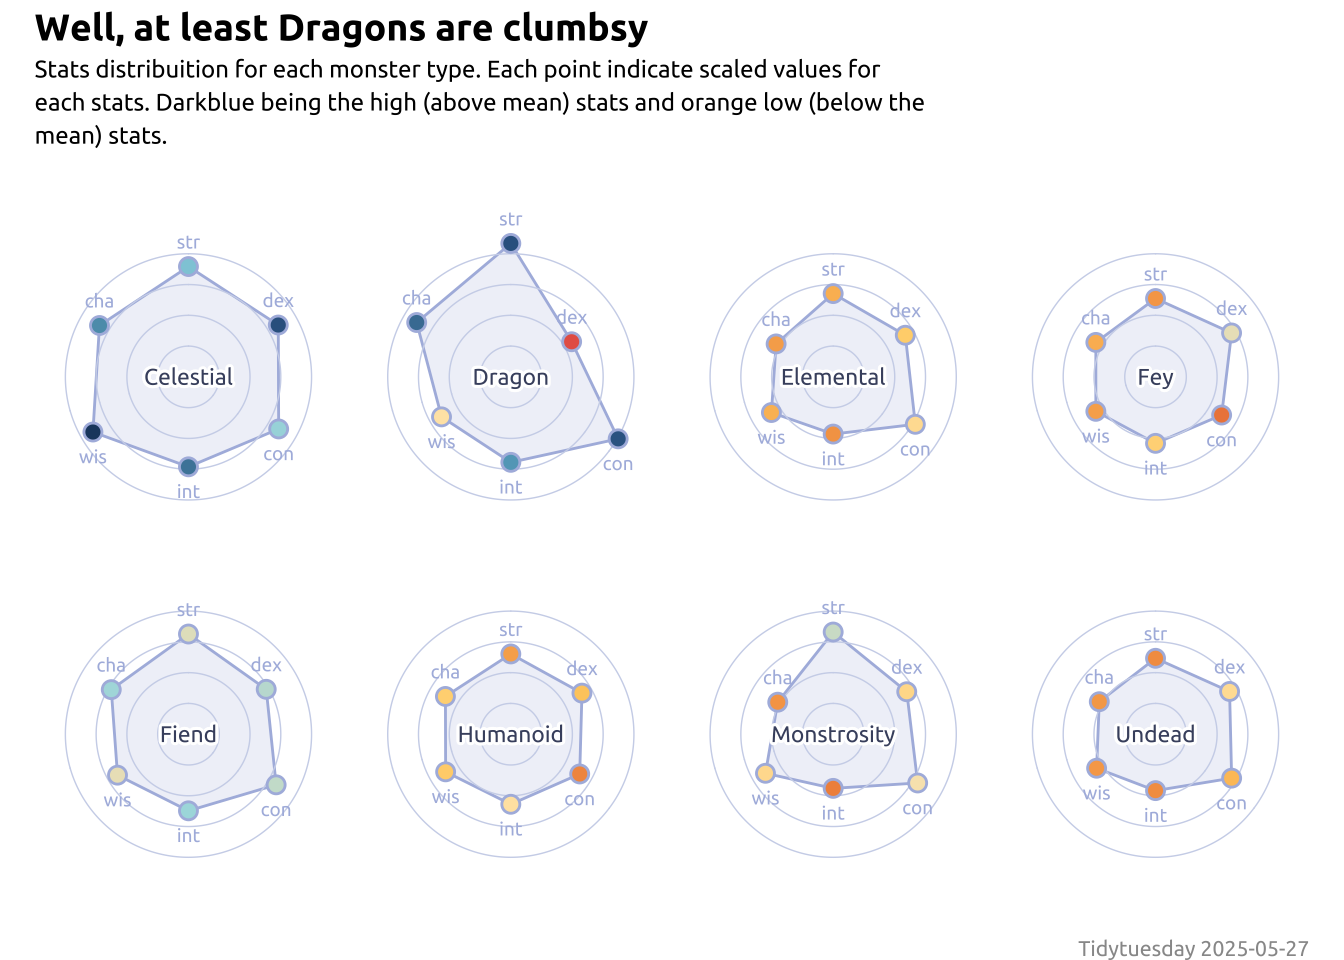
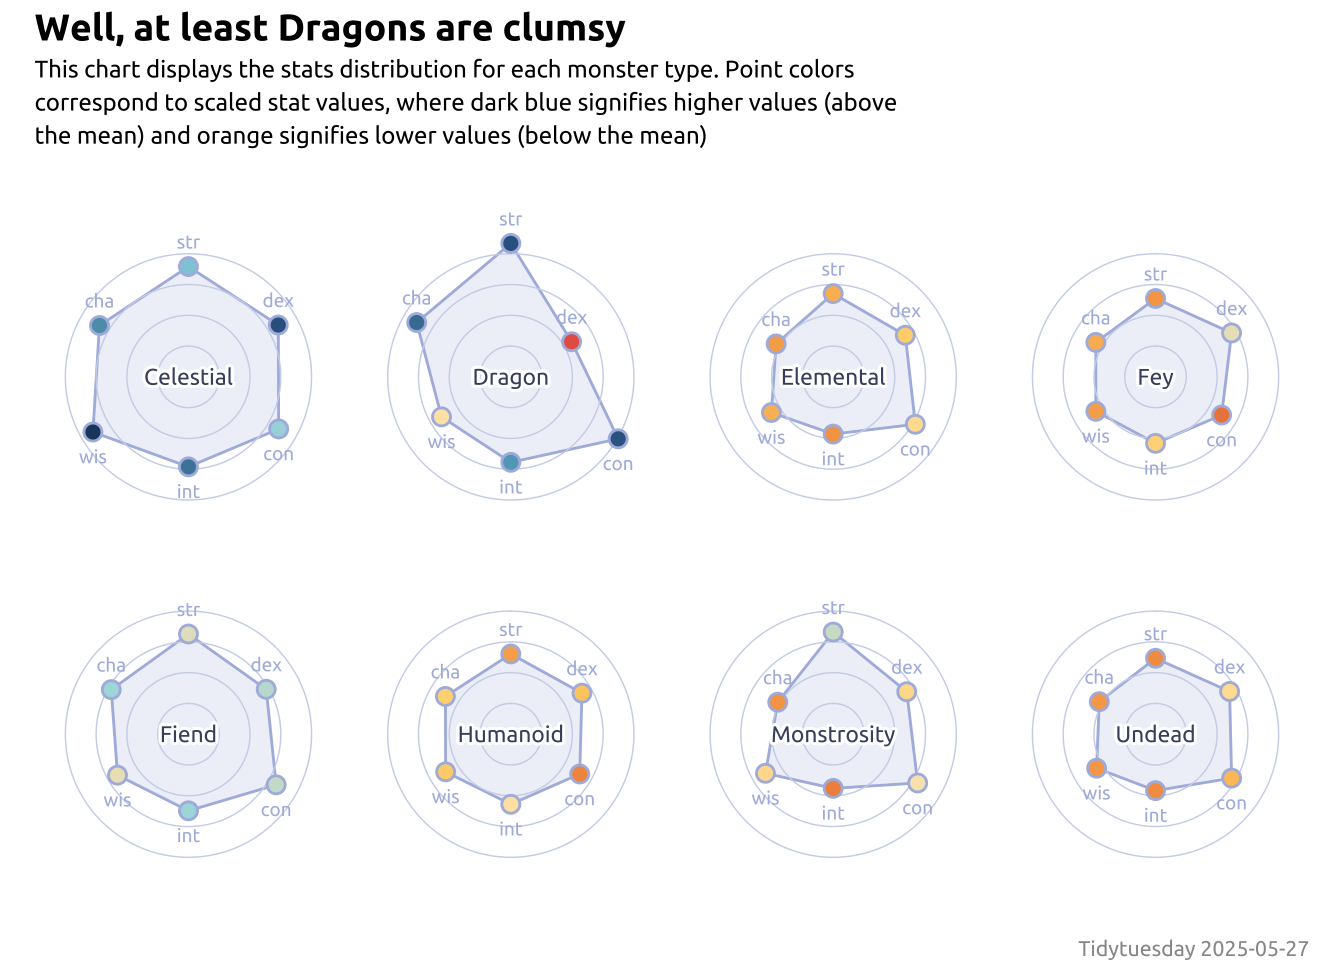
Built site for gh-pages

Changed region(s): [[0.0312, 0.0, 0.6875, 0.1562]]

diff --git a/posts/2025-05-27/notebook.html b/posts/2025-05-27/notebook.html
@@ -435,7 +435,7 @@ pre > code.sourceCode > span > a:first-child::before { text-decoration: underlin
 <span id="cb10-17"><a href="#cb10-17" aria-hidden="true" tabindex="-1"></a>  <span class="fu">scale_y_continuous</span>(<span class="at">expand =</span> <span class="fu">c</span>(<span class="dv">0</span>, <span class="dv">5</span>, <span class="dv">0</span>, <span class="dv">5</span>)) <span class="sc">+</span></span>
 <span id="cb10-18"><a href="#cb10-18" aria-hidden="true" tabindex="-1"></a>  <span class="fu">scale_x_continuous</span>(<span class="at">expand =</span> <span class="fu">c</span>(<span class="dv">0</span>, <span class="dv">5</span>, <span class="dv">0</span>, <span class="dv">5</span>)) <span class="sc">+</span></span>
 <span id="cb10-19"><a href="#cb10-19" aria-hidden="true" tabindex="-1"></a>  <span class="fu">labs</span>(</span>
-<span id="cb10-20"><a href="#cb10-20" aria-hidden="true" tabindex="-1"></a>    <span class="at">title =</span> <span class="st">'Well, at least Dragons are clumbsy'</span>,</span>
+<span id="cb10-20"><a href="#cb10-20" aria-hidden="true" tabindex="-1"></a>    <span class="at">title =</span> <span class="st">'Well, at least Dragons are clumsy'</span>,</span>
 <span id="cb10-21"><a href="#cb10-21" aria-hidden="true" tabindex="-1"></a>    <span class="at">subtitle =</span> <span class="fu">str_wrap</span>(<span class="st">'Stats distribuition for each monster type. Each point indicate scaled values for each stats. Darkblue being the high (above mean) stats and orange low (below the mean) stats.'</span>, <span class="at">width =</span> <span class="dv">80</span>),</span>
 <span id="cb10-22"><a href="#cb10-22" aria-hidden="true" tabindex="-1"></a>    <span class="at">caption =</span> <span class="st">'Tidytuesday 2025-05-27'</span></span>
 <span id="cb10-23"><a href="#cb10-23" aria-hidden="true" tabindex="-1"></a>  )</span></code><button title="Copy to Clipboard" class="code-copy-button"><i class="bi"></i></button></pre></div>
@@ -523,8 +523,8 @@ pre > code.sourceCode > span > a:first-child::before { text-decoration: underlin
 <span id="cb11-70"><a href="#cb11-70" aria-hidden="true" tabindex="-1"></a>  ) <span class="sc">+</span></span>
 <span id="cb11-71"><a href="#cb11-71" aria-hidden="true" tabindex="-1"></a>  <span class="fu">guides</span>(<span class="at">color =</span> <span class="st">'none'</span>, <span class="at">fill =</span> <span class="st">'none'</span>) <span class="sc">+</span></span>
 <span id="cb11-72"><a href="#cb11-72" aria-hidden="true" tabindex="-1"></a>  <span class="fu">labs</span>(</span>
-<span id="cb11-73"><a href="#cb11-73" aria-hidden="true" tabindex="-1"></a>    <span class="at">title =</span> <span class="st">'Well, at least Dragons are clumbsy'</span>,</span>
-<span id="cb11-74"><a href="#cb11-74" aria-hidden="true" tabindex="-1"></a>    <span class="at">subtitle =</span> <span class="fu">str_wrap</span>(<span class="st">'Stats distribuition for each monster type. Each point indicate scaled values for each stats. Darkblue being the high (above mean) stats and orange low (below the mean) stats.'</span>, <span class="at">width =</span> <span class="dv">80</span>),</span>
+<span id="cb11-73"><a href="#cb11-73" aria-hidden="true" tabindex="-1"></a>    <span class="at">title =</span> <span class="st">'Well, at least Dragons are clumsy'</span>,</span>
+<span id="cb11-74"><a href="#cb11-74" aria-hidden="true" tabindex="-1"></a>    <span class="at">subtitle =</span> <span class="fu">str_wrap</span>(<span class="st">'This chart displays the stats distribution for each monster type. Point colors correspond to scaled stat values, where dark blue signifies higher values (above the mean) and orange signifies lower values (below the mean)'</span>, <span class="at">width =</span> <span class="dv">80</span>),</span>
 <span id="cb11-75"><a href="#cb11-75" aria-hidden="true" tabindex="-1"></a>    <span class="at">caption =</span> <span class="st">'Tidytuesday 2025-05-27'</span></span>
 <span id="cb11-76"><a href="#cb11-76" aria-hidden="true" tabindex="-1"></a>  )</span></code><button title="Copy to Clipboard" class="code-copy-button"><i class="bi"></i></button></pre></div>
 <div class="cell-output-display">
@@ -533,6 +533,19 @@ pre > code.sourceCode > span > a:first-child::before { text-decoration: underlin
 <p><img src="notebook_files/figure-html/final_plot-1.png" class="img-fluid figure-img" width="672"></p>
 </figure>
 </div>
+</div>
+</div>
+<div class="callout callout-style-default callout-note callout-titled">
+<div class="callout-header d-flex align-content-center">
+<div class="callout-icon-container">
+<i class="callout-icon"></i>
+</div>
+<div class="callout-title-container flex-fill">
+Note
+</div>
+</div>
+<div class="callout-body-container callout-body">
+<p>Be aware that radar charts are not really that useful. A better vizualization could be done with bar chart, but I never done a radar before, so I gave it a try (and probably my last, lol)</p>
 </div>
 </div>
 

diff --git a/index.html b/index.html
@@ -224,7 +224,7 @@ window.Quarto = {
 
 <div class="quarto-listing quarto-listing-container-grid" id="listing-listing">
 <div class="list grid quarto-listing-cols-3">
-<div class="g-col-1" data-index="0" data-categories="cmFkYXI=" data-listing-date-sort="1748314800000" data-listing-file-modified-sort="1748359558724" data-listing-date-modified-sort="NaN" data-listing-reading-time-sort="8" data-listing-word-count-sort="1554">
+<div class="g-col-1" data-index="0" data-categories="cmFkYXI=" data-listing-date-sort="1748314800000" data-listing-file-modified-sort="1748360942627" data-listing-date-modified-sort="NaN" data-listing-reading-time-sort="8" data-listing-word-count-sort="1554">
 <a href="./posts/2025-05-27/notebook.html" class="quarto-grid-link">
 <div class="quarto-grid-item card h-100 card-left">
 <p class="card-img-top">
